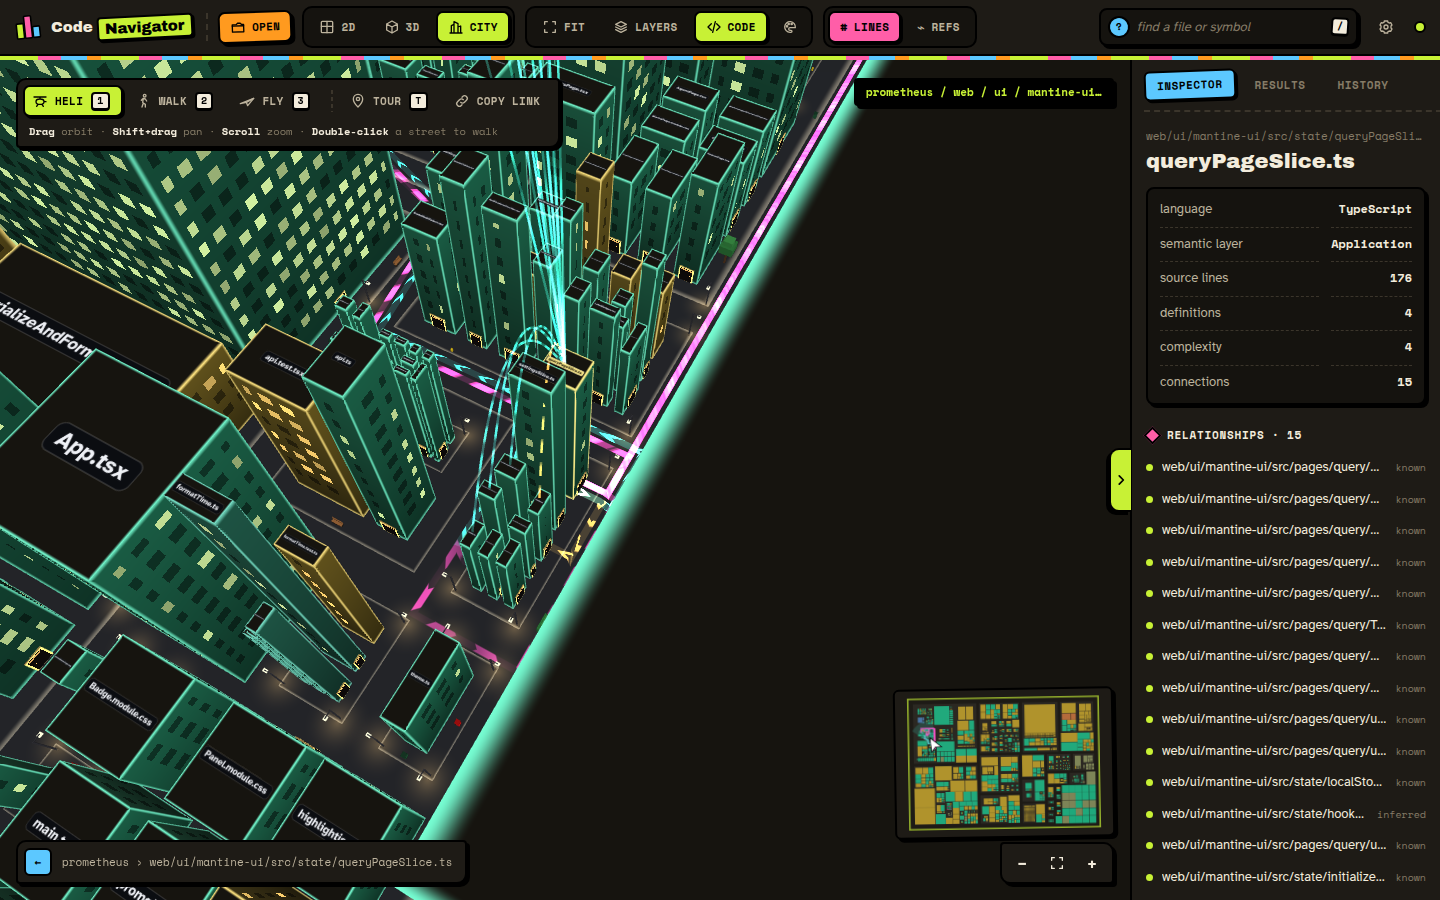
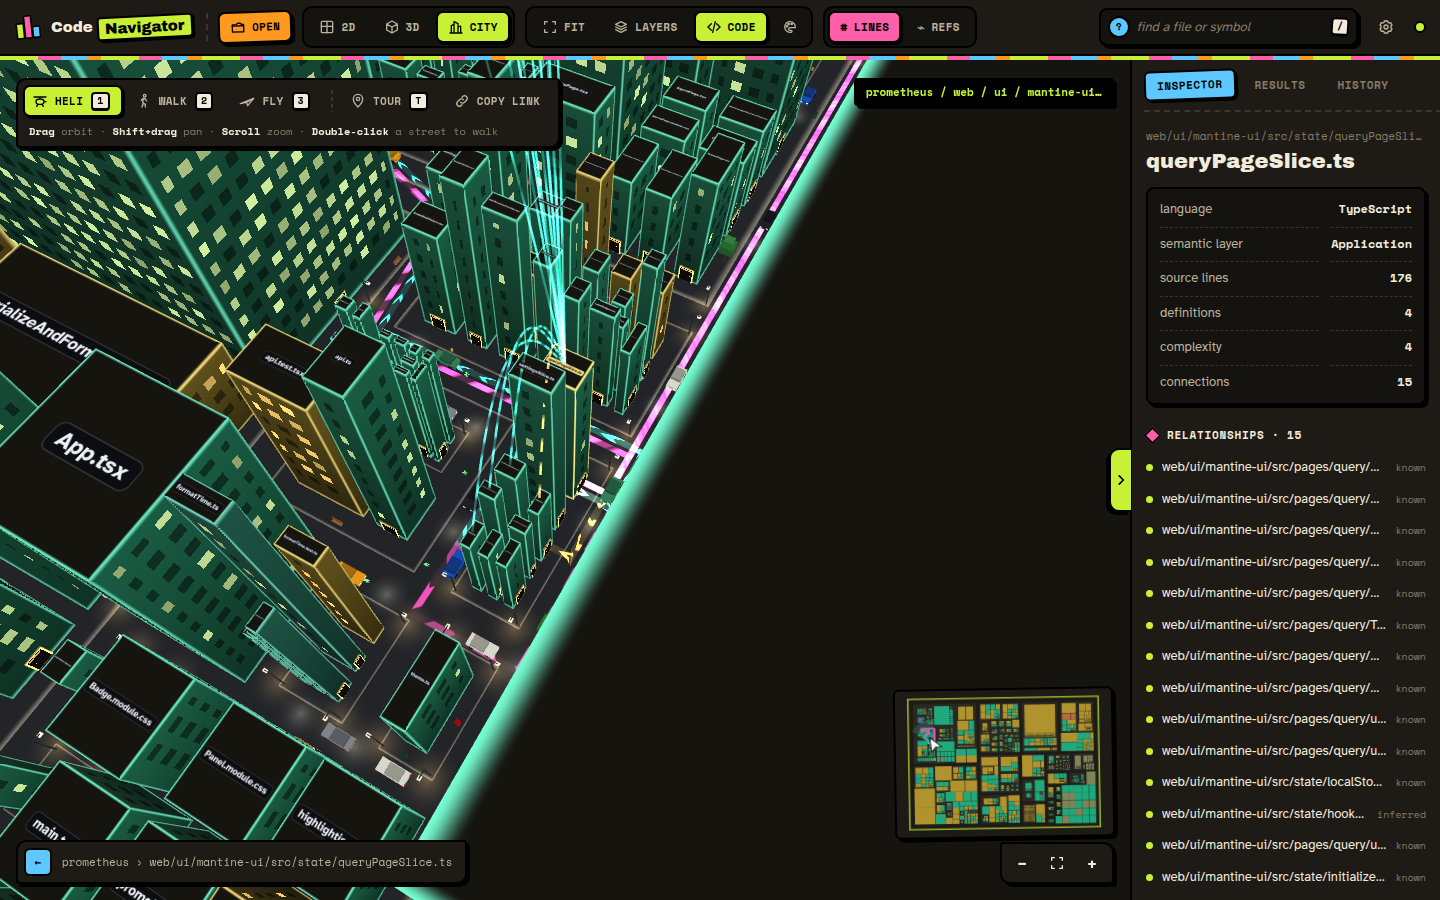
Document city traffic; refresh street screenshots

diff --git a/README.md b/README.md
@@ -16,7 +16,7 @@ indexing API and the browser frontend (plain ES modules and WebGL2, no build ste
 | ![2D map](docs/images/map-2d.png) | **2D map**: a squarified treemap of every file, sized by lines or references, with source code rendered right on the tiles as you zoom in. |
 | ![3D landscape](docs/images/landscape-3d.png) | **3D landscape**: the same map extruded, orbit, pan and dolly around it. |
 | ![Routes in the city](docs/images/city-routes.png) | **City**: folders become districts and blocks, files become buildings (footprint from lines, height from complexity, lit windows from definitions). Select a file to see its imports as cyan routes and its dependents as pulsing magenta routes along the streets. |
-| ![Walking the city](docs/images/city-walk.png) | **Walk and fly** at street level past lit doorways, streetlights, bins, benches and trees, with signs on every wall, folder street signs on the corners, source code on the facade in front of you, wandering residents and a city wall covered in posters. |
+| ![Walking the city](docs/images/city-walk.png) | **Walk and fly** at street level past lit doorways, passing traffic, streetlights, bins, benches and trees, with signs on every wall, folder street signs on the corners, source code on the facade in front of you, wandering residents and a city wall covered in posters. |
 
 Also:
 

diff --git a/docs/CITY.md b/docs/CITY.md
@@ -24,6 +24,7 @@ scale, so a large repository is a large city.
 | **Lit doorway** | The building's door: facing the street, or a back door onto an alley for files in the middle of a folder |
 | **Streetlights** with pools of light | The edges of each folder: lights stand on its boundary, at every corner and every 20 m or so |
 | **Bins, benches, trees, hydrants, post boxes** | Street furniture on the folder's pavement. Purely for atmosphere |
+| **Cars** | Traffic circling the blocks inside each folder, on its grey streets (never on the black ground between districts). They drive on the right and stop for you if you stand in their lane. Purely for atmosphere |
 | **Cyan chevrons** on the road | Route to a file the selected file imports (**amber** if the import was inferred) |
 | **Pulsing magenta dashes** on the road | Route from a file that imports the selected file |
 | **Arcs** in the sky | The same import relationships, as the crow flies |

diff --git a/docs/ARCHITECTURE.md b/docs/ARCHITECTURE.md
@@ -80,7 +80,9 @@ Plain ES modules, no framework, no build step.
 3. **Doors and street furniture:** small instanced boxes (lit doorways, lamp posts and heads, bins,
    benches, trees, hydrants, post boxes) drawn with a separate shader variant, and only within a few
    hundred metres of the camera. Streetlights stand on folder boundaries, and everything sits on
-   folder pavements, never the road.
+   folder pavements, never the road. Cars use the same shader: each block inside a folder has a
+   one-lane loop half-way into the street around it, and only cars near the camera are rebuilt
+   each frame.
 4. **Effects:** additive and never occluding. Lamp light pools, search beacons, fire and smoke particles (stateless,
    animated in the vertex shader), residents (procedural stick-figure sprites), street routes
    (mitred ribbons with chevrons or pulsing dashes, kept in right-hand lanes) and import arcs.
